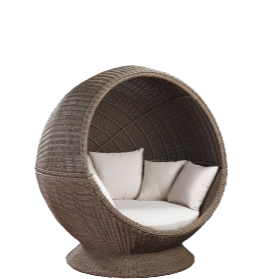
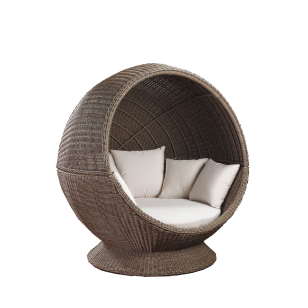
update

Changed region(s): [[0.1208, 0.2007, 0.8755, 1.0], [0.4226, 0.4301, 0.4528, 0.4588]]

diff --git a/index.html b/index.html
@@ -100,16 +100,20 @@
             </p>
           </div>
           <div class="btnnn d-flex flex-column flex-md-row">
-            <button
-              class="btn1 mb-3 mb-md-0 me-md-3"
-              role="button"
-              type="button"
+            <a href="#form">
+              <button
+                class="btn1 mb-3 mb-md-0 me-md-3"
+                role="button"
+                type="button"
+              >
+                Request a Quote
+              </button></a
             >
-              Request a Quote
-            </button>
-            <button class="btn2" role="button" type="button">
-              Watch Video
-            </button>
+            <a href="#video_sec">
+              <button class="btn2" role="button" type="button">
+                Watch Video
+              </button></a
+            >
           </div>
         </div>
       </div>

diff --git a/styles.css b/styles.css
@@ -16,6 +16,10 @@ html {
   scroll-behavior: smooth;
 }
 
+img {
+  mix-blend-mode: darken;
+}
+
 body {
   margin: 0;
   color: var(--on-background);
@@ -178,7 +182,6 @@ h3 {
 }
 .title {
   width: 50vw;
-  margin-left: 5vw;
 }
 .title h1 {
   font-weight: 500;
@@ -205,9 +208,7 @@ h3 {
 .cover-img {
   width: 100vw;
 }
-.cover-img img {
-  mix-blend-mode: darken;
-}
+
 .btnnn {
   width: 100vw;
 }
@@ -409,6 +410,7 @@ h3 {
 .product-container {
   width: 70%;
 }
+
 .product-card {
   background: #fff4e8;
   border-radius: 3px;
@@ -597,6 +599,7 @@ h3 {
 .form-right img {
   padding: 5vh 0 0;
   height: 45vh;
+  mix-blend-mode: darken;
 }
 
 .input-form {
@@ -618,6 +621,10 @@ h3 {
   line-height: 2vh;
   letter-spacing: -0.5px;
   color: #fe8432;
+}
+
+.form-left {
+  padding-top: 10vh;
 }
 .form-left h6 {
   margin: 0;
